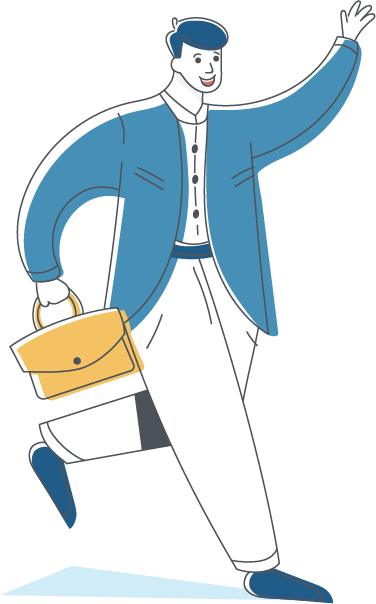
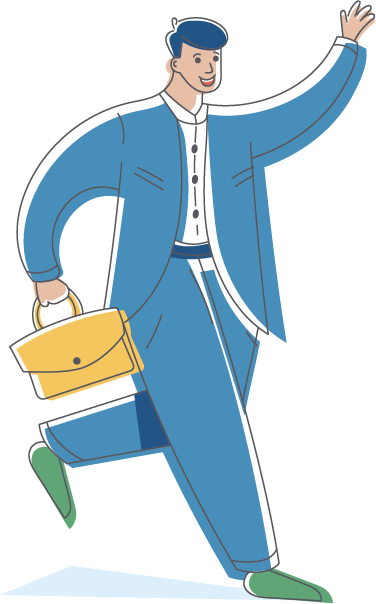
Update images

diff --git a/_service_areas/ditap.md b/_service_areas/ditap.md
@@ -72,14 +72,14 @@ tags: [digital acquisition training, agile acquisition training]
             <p>Our instructors are recognized experts in the field of digital acquisition, and are eager to share their past and current experiences with you. Through our blend of remote and onsite learning, you'll have the chance to engage with the pioneers of modern procurement techniques.</p>
           </div>
           <div class="image-list-img col-12 col-lg-3">
-            <img src="/img/ditap-03-flipped.png" alt="">
+            <img src="/img/ditap-02.png" alt="">
           </div>
           <div class="col-12 col-lg-8">
             <h3>Dynamic learning opportunities</h3>
             <p>Our balanced, holistic approach to teaching will give you the tools you need to master the course material &mdash; whatever your learning style. We blend traditional in-person classroom learning (such as seminars, panels, and guest speakers) with flexible, asynchronous online learning content (such as readings, team projects, and interactive discussions).</p>
           </div>
           <div class="image-list-img col-12 col-lg-3">
-            <img src="/img/ditap-02-flipped.png" alt="">
+            <img src="/img/ditap-03.png" alt="">
           </div>
           <div class="col-12 col-lg-8">
             <h3>Personalized guidance</h3>
